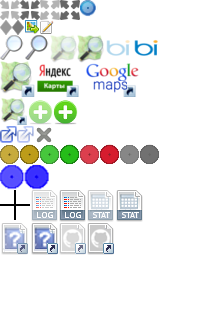
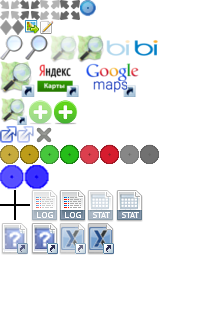
NixtGIS link was added

Changed region(s): [[0.3, 0.6792, 0.57, 0.7925]]

diff --git a/uik_ru/static/css/main.css b/uik_ru/static/css/main.css
@@ -213,7 +213,7 @@ body.searcher-collapsed div.stat-group {
 div.stat-group div.log,
 div.stat-group div.stat,
 div.help-group div.help,
-div.help-group div.github {
+div.help-group div.nextgis {
     width: 32px;
     height: 36px;
     margin: 2px;
@@ -225,7 +225,7 @@ div.help-group div.github {
 div.stat-group div.log a,
 div.stat-group div.stat a,
 div.help-group div.help a,
-div.help-group div.github a {
+div.help-group div.nextgis a {
     display: inline-block;
     margin: 2px 0 0 2px;
     width: 29px;
@@ -266,11 +266,11 @@ div.help-group div.help:hover a {
     background: url('../img/sm-icons.png') -30px -223px;
 }
 
-div.help-group div.github a {
+div.help-group div.nextgis a {
     background: url('../img/sm-icons.png') -59px -223px;
 }
 
-div.help-group div.github:hover a {
+div.help-group div.nextgis:hover a {
     background: url('../img/sm-icons.png') -87px -223px;
 }
 
